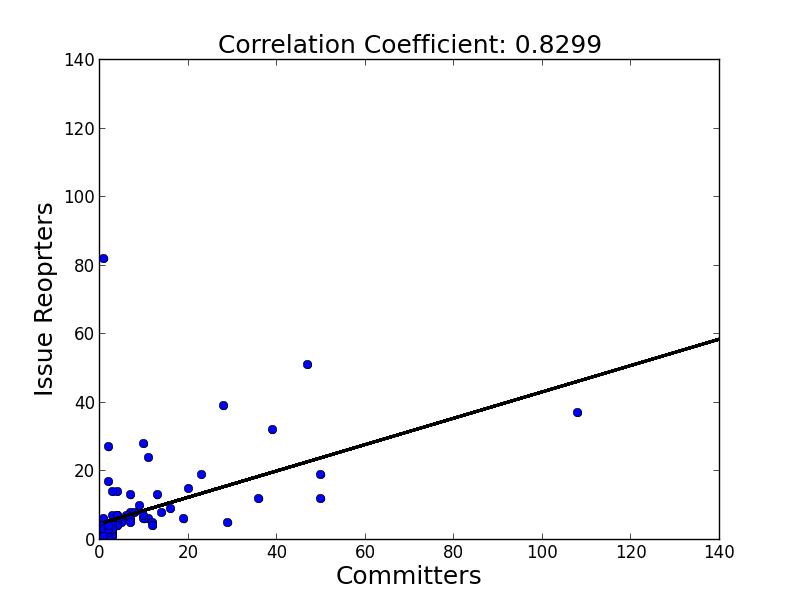
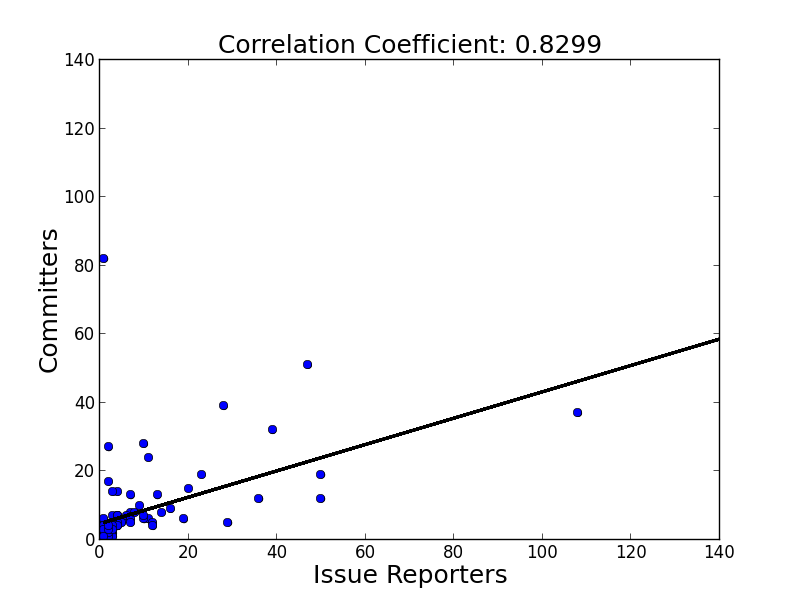
Fixed a bad SQL statement.

Changed region(s): [[0.0312, 0.33, 0.0938, 0.66], [0.375, 0.93, 0.625, 0.99]]

diff --git a/paper/main.tex b/paper/main.tex
@@ -123,7 +123,7 @@ As stated, the main focus of data collection was to gather metrics pertaining to
 
 \[A^\prime = \{i, c, i^\prime, i^{\prime\prime}, \Delta, \omega, \epsilon\}\]
 
-Where $i$ = {\textit{Issues}, $c$ = {\textit{Commits}, $i^\prime$ = {\textit{Closed Issues}, $i^{\prime\prime}$ = {\textit{Open Issues}, $\Delta$ = {\textit{Issue Close Time}, $\omega$ = {\textit{Issue Creators}, and $\epsilon$ = {\textit{Committers}.
+Where $i$ = {\textit{Issues}, $c$ = {\textit{Commits}, $i^\prime$ = {\textit{Closed Issues}, $i^{\prime\prime}$ = {\textit{Open Issues}, $\Delta$ = {\textit{Issue Close Time}, $\omega$ = {\textit{Issue Reporters}, and $\epsilon$ = {\textit{Committers}.
 
 All analyzed \textit{Repositories} can be thought of as the Indexed Family of \textit{Attribute} Sets, or a set of sets of \textit{Attributes}. Let the set of these sets of \textit{Attributes} be called $S$, or the \textit{Repository Sample}. We can label the \textit{Attribute} sets by arbitrary integers 0 through $|S|$, or:
 \[ \{A_i\}_{i \in \{0,1,2 ... |S|\} }\]
@@ -162,7 +162,7 @@ The average \textit{Issue Close Time} is calculated using the following method: 
 
 Where for each issue $i$ in $I$, the \textit{Issue Open Date} $s( p_{1}(i))$ is subtracted from the \textit{Issue Close Date} $s( p_{2}(i))$, where $p_{1}(i)$ and $p_{2}(i)$ denote projections of the tuple, or \textit{Issue Open Date} and \textit{Issue Close Date}, respectively. The result of this is averaged and converted into a Date via $d(x)$, resulting in the average issue close time interval $\Delta$.
 
-\noindent \textbf{\textit{Issue Creators:}}
+\noindent \textbf{\textit{Issue Reporters:}}
 The number of distinct users that have opened at least one \textit{Issue}.
 
 \noindent \textbf{\textit{Committers:}}
@@ -220,7 +220,7 @@ It is possible that other factors, such as issue prioritization, may have a grea
 
 \noindent \textbf{Hypothesis 3: There will be more Issue Reporters than Committers by an order of magnitude.}\\
 Data does not support an exponentially increasing number of distinct Issue Reporters as compared to distinct Committers. 
-As shown in Figure~\ref{fig:issue_reporters_committers_scatterplot}, the slope of the relationship between the two variables is less than one. This does not seem to completely align with findings in the Apache Server project~\cite{mockus2000case}. 
+As shown in Figure~\ref{fig:issue_reporters_committers_scatterplot}, the number of Issue Reporters is larger than the number of Committers, but not by an order of magnitude. Table~\ref{table:summary_stats} reinforces this, as the averages of the two variables are closer than the hypothesis states. This does not seem to completely align with findings in the Apache Server project~\cite{mockus2000case}. 
 
 \begin{figure}
 \includegraphics[height=3in,width=3in]{images/issue_reporters_committers_scatterplot.png}

diff --git a/paper/summary_statistics.tex b/paper/summary_statistics.tex
@@ -1,7 +1,7 @@
-Issues  &  48.38  &  1  &  1594  &  146.43  \\
-Commits  &  169.29  &  1  &  49325  &  1578.86  \\
-Closed Issues  &  45.05  &  1  &  1569  &  135.53  \\
-Open Issues  &  12.71  &  1  &  430  &  33.66  \\
-Issue Close Time  &  32.76  &  0  &  1123  &  82.1  \\
-Issue Creators  &  20.93  &  1  &  712  &  58.96  \\
-Committers  &  4.0  &  1  &  225  &  12.93  \\
+Issues  &  67.91  &  1  &  2708  &  283.65  \\
+Commits  &  548.68  &  1  &  61129  &  3659.2  \\
+Closed Issues  &  64.82  &  1  &  2392  &  269.04  \\
+Open Issues  &  15.68  &  1  &  316  &  41.49  \\
+Issue Close Time  &  28.46  &  0  &  515  &  64.08  \\
+Issue Reporters  &  20.72  &  1  &  349  &  58.33  \\
+Committers  &  26.54  &  1  &  4245  &  245.37  \\

diff --git a/code/plots.py b/code/plots.py
@@ -52,7 +52,7 @@ from
         issue
     group by repository_id) issues ON issues.repository_id = commits.repository_id
 '''
-issue_reporters_committers_scatterplot = ScatterPlot(issue_reporters_committers_query, "Committers", "Issue Reoprters", (0,140), (0,140))
+issue_reporters_committers_scatterplot = ScatterPlot(issue_reporters_committers_query, "Issue Reporters", "Committers", (0,140), (0,140))
 issue_reporters_committers_scatterplot.plot("issue_reporters_committers_scatterplot")
 
 issue_close_time_forks_query = '''
